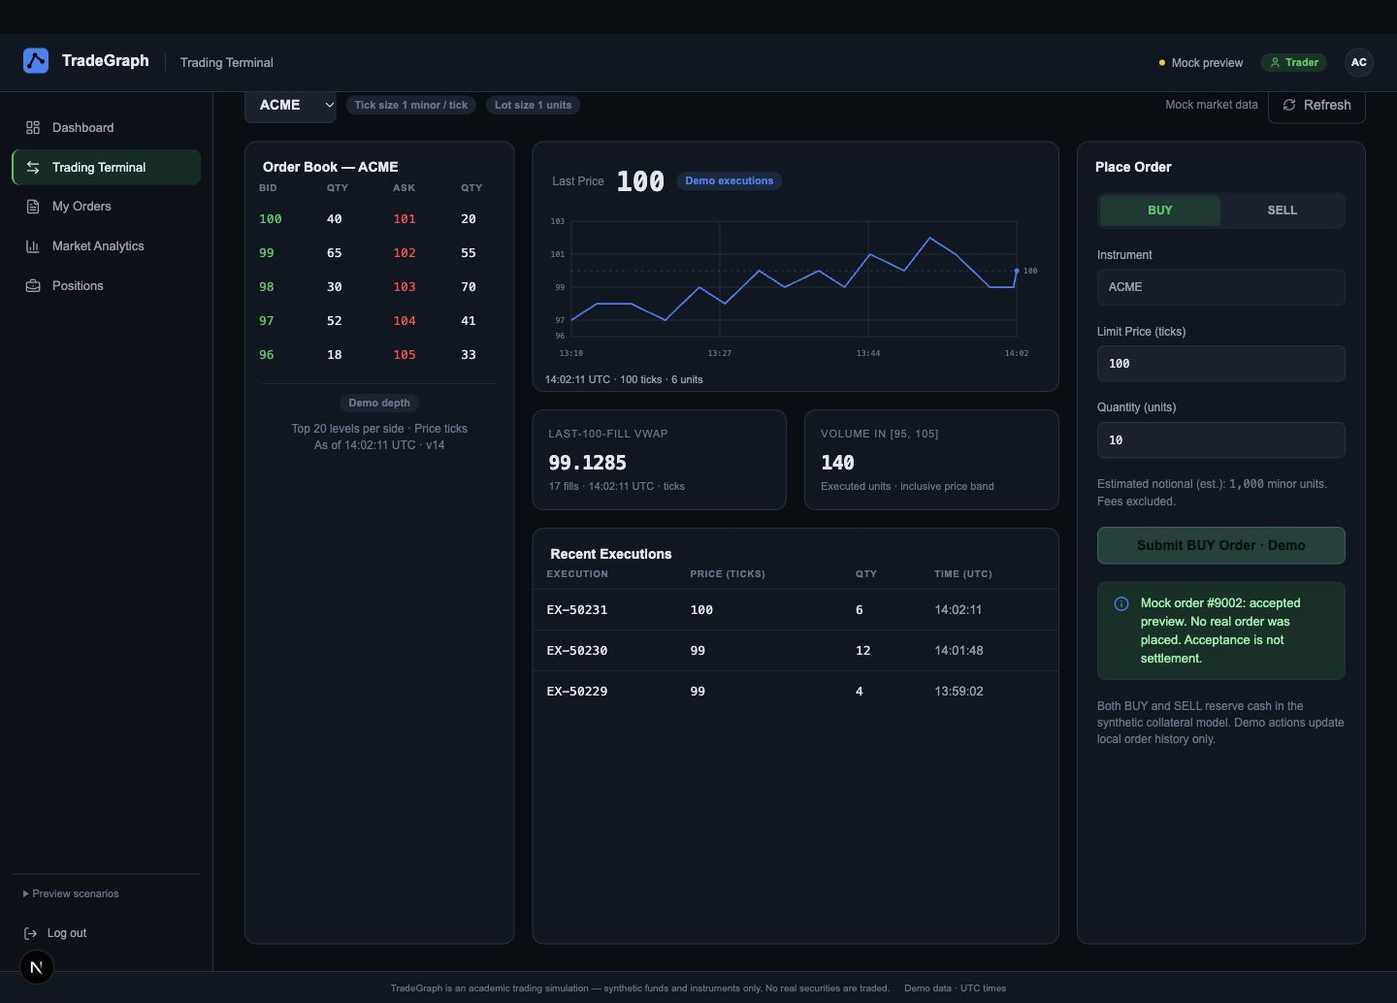
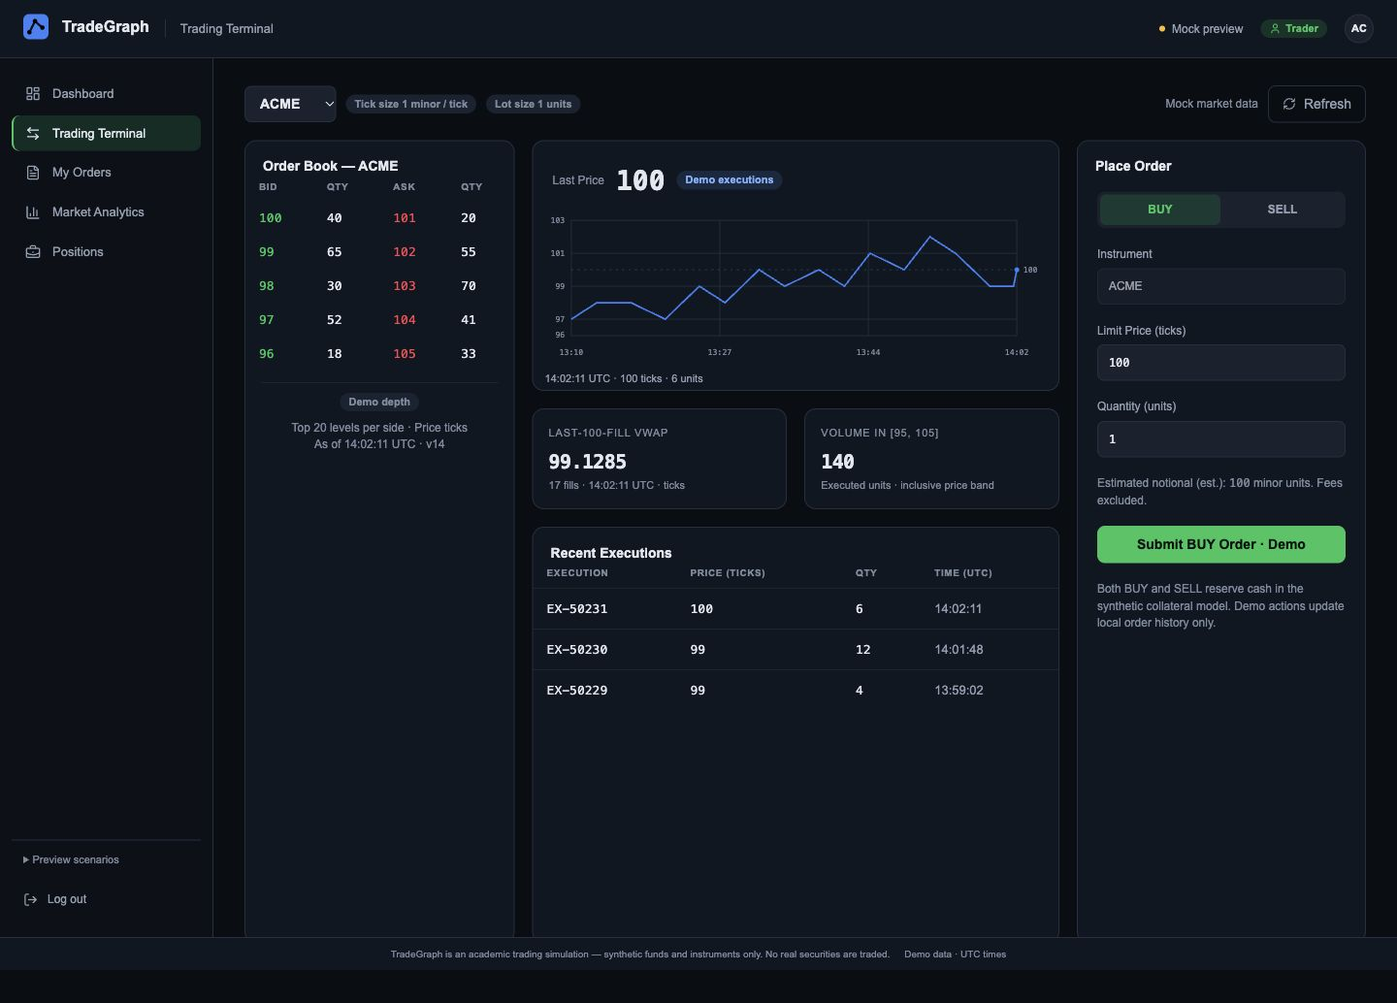
frontend: complete phase 13 verification evidence and FastAPI handoff

diff --git a/frontend/IMPLEMENTATION.md b/frontend/IMPLEMENTATION.md
@@ -6,22 +6,22 @@ Baseline: e99bc37, confirmed equal to fetched origin/main. All original frontend
 
 Reference: TradeGraph Frontend Mockups.pdf (11 pages), visually inspected at 1600px. Main canvas #090d12, top bar/cards #101722, border #253040, text #e2e8f0, muted #939fb2, blue #3b82f6, green #22c55e. 60px top bar, 220px sidebar, 32px content inset, 18px gaps, 12px card radius. System sans text and monospace financial values. Mobile behavior is not specified: use a collapsible navigation and stacked cards with horizontal scrolling contained inside tables.
 
-| Phase | Page / PDF                      | Components                                                                 | Backend contracts                                    | Gate    |
-| ----- | ------------------------------- | -------------------------------------------------------------------------- | ---------------------------------------------------- | ------- |
-| 0     | Foundation                      | contracts, fixtures, service interfaces, shell, UI primitives              | all implemented route models                         | passed  |
-| 1     | Authentication / 1              | container, mode selector, role selector, sign-in, sign-up, preview         | Login, LoginResponse                                 | passed  |
-| 2     | Dashboard / 2                   | header, balances, positions, orders, executions, actions                   | Account, OwnOrders, Trades                           | pending |
-| 3     | Terminal / 3                    | instrument, depth, line chart, analytics, executions, order form, feedback | InstrumentCatalog, Book, Trades, Analytics, NewOrder | pending |
-| 4     | My Orders / 4                   | status filters, history, details, cancel dialog, cursor controls           | OwnOrders, CancelledOrder                            | pending |
-| 5     | Market Analytics / 5            | instrument, VWAP, price band, execution history, cursor controls           | Analytics, Trades                                    | pending |
-| 6     | Account / no separate reference | reuse balances and positions from PDF 2                                    | Account                                              | pending |
-| 7     | Admin Overview / 6              | health cards, investigation links, embedded simulator                      | HealthResponse, SimulationStart/Status               | pending |
-| 8     | Surveillance / 7                | limit, candidate table, directed cycle                                     | Cycles                                               | pending |
-| 9     | Regimes / 8                     | mode, six features, on-demand results                                      | Similar                                              | pending |
-| 10    | Disclosures / 9                 | query, metadata results                                                    | Search                                               | pending |
-| 11    | Optimizer / 10                  | allowlisted scenarios, parameters, paired plan trees                       | Optimizer                                            | pending |
-| 12    | Desks / 11                      | aggregate table, recursive explanation                                     | Rollup                                               | pending |
-| 13    | Navigation                      | role guards, logout, aliases, end-to-end checks, handoff                   | future BFF only                                      | pending |
+| Phase | Page / PDF                      | Components                                                                 | Backend contracts                                    | Gate   |
+| ----- | ------------------------------- | -------------------------------------------------------------------------- | ---------------------------------------------------- | ------ |
+| 0     | Foundation                      | contracts, fixtures, service interfaces, shell, UI primitives              | all implemented route models                         | passed |
+| 1     | Authentication / 1              | container, mode selector, role selector, sign-in, sign-up, preview         | Login, LoginResponse                                 | passed |
+| 2     | Dashboard / 2                   | header, balances, positions, orders, executions, actions                   | Account, OwnOrders, Trades                           | passed |
+| 3     | Terminal / 3                    | instrument, depth, line chart, analytics, executions, order form, feedback | InstrumentCatalog, Book, Trades, Analytics, NewOrder | passed |
+| 4     | My Orders / 4                   | status filters, history, details, cancel dialog, cursor controls           | OwnOrders, CancelledOrder                            | passed |
+| 5     | Market Analytics / 5            | instrument, VWAP, price band, execution history, cursor controls           | Analytics, Trades                                    | passed |
+| 6     | Account / no separate reference | reuse balances and positions from PDF 2                                    | Account                                              | passed |
+| 7     | Admin Overview / 6              | health cards, investigation links, embedded simulator                      | HealthResponse, SimulationStart/Status               | passed |
+| 8     | Surveillance / 7                | limit, candidate table, directed cycle                                     | Cycles                                               | passed |
+| 9     | Regimes / 8                     | mode, six features, on-demand results                                      | Similar                                              | passed |
+| 10    | Disclosures / 9                 | query, metadata results                                                    | Search                                               | passed |
+| 11    | Optimizer / 10                  | allowlisted scenarios, parameters, paired plan trees                       | Optimizer                                            | passed |
+| 12    | Desks / 11                      | aggregate table, recursive explanation                                     | Rollup                                               | passed |
+| 13    | Navigation                      | role guards, logout, aliases, end-to-end checks, handoff                   | future BFF only                                      | passed |
 
 ## Resolved design/contract differences
 
@@ -83,3 +83,15 @@ OptimizerControls and recursive PlanPanel/PlanTree committed. Explicit compare, 
 ## Phase 12 — Desk Analytics
 
 DeskRollup and DeskExplanation committed independently. Exact signed PnL and execution volume, local sorting, refresh and shared data states completed. Browser visual check and typecheck pass; evidence/12-desks.jpg compared with PDF 11. Removed unsupported desk names/hierarchy while preserving the table and explanation-card arrangement. No extra totals over overlapping ancestor/child rows. No backend integration.
+
+## Phase 13 — Navigation, regression and integration boundary
+
+All twelve pages and legacy aliases are connected. The centralized catalog service now supplies instrument selection/symbol resolution and supports an empty active catalog without fallback data. The mock provider preserves selected instruments/local order state across client navigation, isolates role access, handles direct routes/expiry and clears the session on logout. Shared loading/error/empty states, mobile navigation, native dialog Escape and focusable table regions were verified in the browser. Request sequence guards discard stale administrative query results.
+
+Final checks: `npm run format:check` passed; `npm run typecheck` passed; `npm test` **16 passed, 0 failed**; `npm run build` passed with every intended page and legacy alias. `npm start` served the production build; root/login/trade/surveillance/optimizer aliases, signed-out routing, dialog Escape and final terminal rendering were smoke-tested. Production browser error log: empty. The owned preview servers were stopped afterward.
+
+All eleven authenticated pages at 375×812 reported document width/scroll width of 375. Secondary text contrast and blue action contrast were improved slightly from the reference; mobile drawer stacking was corrected after the footer obstructed logout. Remaining visible deviations are the contract differences recorded above. The standalone Account screen reuses Dashboard components because no separate reference exists. Screenshots evidence/01 through evidence/15 cover desktop, mobile and large-value scenarios; 03-terminal.jpg is the final production rendering.
+
+The development build cache encountered disk pressure during extensive hot reloads; only the generated `.next/dev/cache` was removed. The final production build and smoke tests succeeded afterward. No user files outside the task were deleted.
+
+Deliverables: README.md for run instructions, VERIFICATION.md for executed checks and reference mapping, INTEGRATION.md for service/endpoint mappings and the still-unimplemented server-side BFF/session/lossless normalization work. No live backend call, bot process, database operation, registration or financial transaction occurred. Git diff confirms backend/, db/, repository tests/, docs/, scripts/ and root README.md unchanged from e99bc37. All commits are local on codex/frontend-mockups; nothing pushed.

diff --git a/frontend/INTEGRATION.md b/frontend/INTEGRATION.md
@@ -1,0 +1,61 @@
+# Future FastAPI integration handoff
+
+## Current boundary
+
+`src/lib/contracts.ts` mirrors implemented Python route fields. `Int` means a **normalized exact decimal integer string**, not the wire type. `src/lib/services.ts` exports frontend-facing service contracts and a single deterministic mock adapter. `PreviewProvider` owns the replaceable adapter, role preview, catalog, selected instrument and fixture settings. Components receive normalized records or call this adapter. No application fetch, API proxy, server session, database client, polling loop or market WebSocket is active.
+
+The preview session and its client route guard provide demonstration UX only. The future BFF must independently enforce authorization. A selected frontend role must never override `LoginResponse.role`; `homeFor` maps the actual returned role. `AuthService` documents the future server-side login request/response boundary separately from mock sign-in. Never send a raw access token to client JavaScript or reuse a mock session as real authentication.
+
+## Endpoint replacement map
+
+| Service             | Existing FastAPI route         | Role / notes                                                                |
+| ------------------- | ------------------------------ | --------------------------------------------------------------------------- |
+| AuthService         | POST /login                    | Server-only; email/password only; actual returned role is authoritative     |
+| instruments.list    | GET /instruments               | Both roles; never invent a fallback for an empty catalog                    |
+| account.get         | GET /account/me                | TRADER; cash/escrow in minor units, signed positions, gross PnL             |
+| orders.list         | GET /orders/me                 | TRADER; limit/before_id and next_before_id; no offset/page-count assumption |
+| orders.submit       | POST /orders                   | TRADER; optional Idempotency-Key; 201 acceptance is not settlement          |
+| orders.cancel       | POST /orders/{id}/cancel       | TRADER; no body; reconcile unknown outcomes before retries                  |
+| market.book         | GET /market/{symbol}/book      | Both; derived top-20 depth, stale/as_of/version                             |
+| market.trades       | GET /market/{symbol}/trades    | Both; committed execution history, cursor paging                            |
+| market.analytics    | GET /market/{symbol}/analytics | Both; inclusive price band, decimal-string VWAP, up to 100 fills            |
+| health.get          | GET /health                    | Dependency states/trading_ready only; no latency contract                   |
+| surveillance.cycles | GET /admin/surveillance/cycles | Admin, limit 1–100, candidate cycles only                                   |
+| regimes.similar     | GET /admin/regimes/similar     | Admin; exactly current=true OR six features, k 1–100; explicit action only  |
+| disclosures.search  | GET /admin/disclosures/search  | Admin; q 1–500, metadata only                                               |
+| optimizer.compare   | GET /admin/optimizer/compare   | Admin; allowlisted price_band/recent_executions; explicit expensive read    |
+| desks.rollup        | GET /admin/desks/rollup        | Admin; desk_id/PnL/volume, no parent/name fields                            |
+| simulator.start     | POST /admin/simulator/start    | Admin; validated config, no trader UUID in body                             |
+| simulator.stop      | POST /admin/simulator/stop     | Admin; no body; success only at STOPPED, even on HTTP 200                   |
+| simulator.status    | GET /admin/simulator/status    | Admin; active_bots, exact counters, derived-worker readiness                |
+
+## Exact numbers
+
+1. Read FastAPI response text on the server. Use `parseWire` **before** ordinary JSON parsing: every integer token becomes bigint, fractional numbers remain lossless number objects, decimal-string VWAP remains a string.
+2. Validate the actual response shape, field enums and bounds. Normalize financial values, quantities, IDs/cursors and counters using `normalizeInteger`. Normalize bounded metadata (instrument IDs, bot/window counts) with `boundedNumber`; explicitly validate finite six-feature/rank/distance/timing decimals. Do not cast the unknown parse result directly to a contract.
+3. Pass normalized strings through the BFF's JSON to client components. `fmt` and financial calculations use BigInt. Prices, notional, remaining quantities, cash totals and signed PnL never pass through floating point. No currency or decimal scale is inferred.
+4. Serialize outgoing orders with `serializeOrder` and simulation seeds with `serializeSimulationStart`; integer tokens must be JSON numbers for strict Pydantic bodies, not quoted strings. Transport them server-side without an intermediate Number conversion. Keep request fields allowlisted.
+5. `validateOrder` checks positive ticks, the Redis-safe price bound, BIGINT quantity/notional and lot multiple. It does not replace backend risk/collateral/fee checks. Both sides reserve cash; estimated notional excludes fees.
+
+The line chart converts only bounded pixel ratios to Number; exact price labels remain strings/BigInt. It draws chronologically sorted execution observations with straight segments, no candles, invented extrema, random prices or volume bars. The mock 100-observation cap is only a preview data limit. Future historical aggregation/decimation or additional cursor fetching must be explicitly specified before presenting broader intervals.
+
+## Session and error work still required
+
+Implement the approved same-origin Next.js BFF with a private backend URL, secure server-side token handling, HttpOnly/Secure/SameSite cookies, CSRF protection, expiry handling and authoritative server role checks. Forward sanitized backend error envelopes. Do not add permissive CORS, browser database access or unapproved backend routes.
+
+On 401, clear the real session and require login; on 403, refuse access. A request timeout never proves no reservation or execution committed: reconcile own orders, account and committed executions before any retry. Mock submission and cancellation states illustrate these semantics without touching financial state. Future action error types should replace local Error messages at the adapter boundary.
+
+The backend has no registration/password-reset/refresh-token/backend-logout endpoint or admin approval workflow. Sign-up must remain unavailable until an explicitly approved provisioning implementation exists. Administrator sign-up requires invitation/provisioning; frontend selection grants no privilege.
+
+## Refresh configuration (inactive)
+
+`futureRefresh` records intended active-view cadences: depth and executions 1.5 s; orders 2 s; account 5 s plus after trading actions; simulator status 2.5 s. These are configuration values only. When activated, pause outside active views, prevent overlapping/stale requests, and reconcile after actions. Surveillance, regime capture and optimizer stay on demand; current=true can capture/upsert a regime and must not be prefetched or polled. No market WebSocket architecture is planned.
+
+## Deliberate preview limits
+
+- Local fixtures are illustrative records, not a financially reconciled live exchange ledger; mock fills never alter cash or claim settlement.
+- Regime current features are a labeled demo fixture. The similarity endpoint does not expose a standalone current-feature vector: the future UI must obtain an approved source or omit unavailable values instead of inventing fields.
+- FTS preview uses simple local title matching; the real service must preserve PostgreSQL search/ranking semantics.
+- Plan timings/row counts/buffers are illustrative mock plan objects. No actual SQL is executed.
+- Desk hierarchy cannot be drawn from aggregate IDs alone. No names, parents, universal speedup, current portfolio value, unrealized PnL or unsupported market metrics were invented.
+- State examples are selected through an unobtrusive review panel; this panel must be removed or environment-gated in a later real deployment.

diff --git a/frontend/VERIFICATION.md b/frontend/VERIFICATION.md
@@ -1,0 +1,48 @@
+# Frontend verification
+
+Executed locally on 16 November 2026 (Asia/Kolkata), using the supplied PDF mockups and the actual repository route models. Screenshots are under evidence/. These are visual comparisons, not an automated pixel-difference claim.
+
+## Automated checks
+
+- Strict TypeScript with no emit.
+- Node test runner via tsx: exact wire parsing/serialization, BIGINT balances/seeds/notional, lot/price limits, role/session errors, cursor/cancellation semantics, selected-instrument executions, inclusive bands, simulator config/ERROR handling, missing instruments, plan parameter consistency, custom-vector validation and mock action outcomes.
+- React server-render checks: exact financial card output, cancelled residual semantics, empty/extreme-value line chart, directed edge counts and nested plan nodes/aggregate rows.
+- Production Next.js build; all intended routes and existing aliases resolve.
+- Prettier check and git diff --check.
+
+Final results are recorded in IMPLEMENTATION.md after the final run.
+
+## Browser checks through the in-app browser
+
+| Workflow                 | Observed result                                                                                                                   |
+| ------------------------ | --------------------------------------------------------------------------------------------------------------------------------- |
+| Auth modes/roles         | Sign In / Sign Up and Trader / Administrator selection work                                                                       |
+| Registration             | Matching passwords show registration unavailable; no credentials saved or account-created claim; mismatch validation works        |
+| Mock identity authority  | Admin fixture credentials with Trader selected are rejected for role mismatch                                                     |
+| Trader navigation        | Dashboard → Terminal → My Orders → Analytics → Account; active navigation and shared shell retained                               |
+| BUY preview              | Exact estimate and accepted demo feedback persist after refresh                                                                   |
+| SELL preview             | BETA quantity 11 rejected for lot size 10; quantity 20 with partial outcome appears as filled 10 / unfilled 10 in My Orders       |
+| Cancellation             | Native confirmation dialog, CANCELLED status and explicit non-resting residual explanation verified                               |
+| Cursor history           | Next loads only IDs below next_before_id; previous restores the earlier cursor                                                    |
+| Analytics                | Inclusive 95–105 mock band yields 140 ACME units; selected instrument scopes execution rows                                       |
+| Administrator navigation | Overview → Surveillance → Regimes → Disclosures → Optimizer → Desks                                                               |
+| Simulator                | RUNNING → STOPPING → STOPPED; unknown stop yields ERROR with disabled restart; no bot process started                             |
+| Surveillance             | Selecting five-trader cycle updates exactly its supplied directed edges/counts                                                    |
+| Regimes                  | Explicit search shows all six features and sorted distances; empty current query shows missing observations                       |
+| Disclosures              | Default query returns metadata/ranks only; no body viewer                                                                         |
+| Optimizer                | Nested paired plans render; Recent Executions disables unused instrument/price controls                                           |
+| Role separation          | Admin direct Trader route and Trader direct Admin route both denied                                                               |
+| Session lifecycle        | Natural 15-minute expiry returns to auth with expiry notice; explicit logout returns to /auth                                     |
+| Shared data states       | Empty, error, loading and populated recovery verified on desk analytics                                                           |
+| Missing market data      | Empty chart, stale-depth notice and empty active catalog verified; no submit controls without catalog                             |
+| Large integers           | 9,007,199,254,740,993 is displayed exactly in account view                                                                        |
+| Mobile                   | All eleven authenticated pages tested at 375×812 with document scrollWidth = clientWidth = 375; table overflow stays inside cards |
+| Mobile navigation        | Drawer open/close and logout verified; footer stacking issue found and corrected                                                  |
+
+Keyboard-support checks include explicit form labels, visible focus styles, focusable table scroll regions, native dialog focus/escape behavior, and chart point focus tooltips. Contrast math checked: body text 14.59:1 and muted text 6.72:1 on card surface. Secondary text was brightened to remain at least 4.5:1 on both card/input surfaces; blue action text/background contrast was adjusted accordingly. This is a focused accessibility review, not a formal WCAG certification.
+
+## Visual reference mapping
+
+01-auth ↔ PDF 1; 02-dashboard ↔ PDF 2; 03-terminal ↔ PDF 3; 04-orders ↔ PDF 4; 05-analytics ↔ PDF 5; 07-overview ↔ PDF 6; 08-surveillance ↔ PDF 7; 09-regimes ↔ PDF 8; 10-disclosures ↔ PDF 9; 11-optimizer ↔ PDF 10; 12-desks ↔ PDF 11. 06-account reuses PDF 2 components because no distinct account screen was supplied. Additional mobile and large-integer screenshots capture regression scenarios.
+
+The implementation record documents visible contract-driven deviations. No backend, database schema, financial SQL or backend test implementation changed; no changes were pushed.

diff --git a/frontend/README.md b/frontend/README.md
@@ -1,0 +1,23 @@
+# TradeGraph frontend preview
+
+A Next.js App Router / React / strict TypeScript / Tailwind demonstration built against the supplied 11-screen PDF. All service data and actions are local mocks. No FastAPI connection, database access, registration service or real trading operation is implemented.
+
+```sh
+cd frontend
+npm ci
+npm run dev
+```
+
+Open http://127.0.0.1:3000. Use **View as Trader** or **View as Compliance Admin** on Authentication. Optional mock sign-in accepts `alice@tradegraph.sim` or `admin@tradegraph.sim` with the public fixture password `preview-only`. These values never authenticate with the backend. Only a mock role flag and expiry are stored in sessionStorage; credentials are never stored. Local order changes reset on full reload.
+
+The sidebar's **Preview scenarios** exposes populated, empty, loading, stale, unavailable, large-integer and no-active-instrument fixtures. Action outcomes cover accepted, partial, filled, rejected and unknown previews. In the administrator preview, the unknown outcome demonstrates a failed simulator stop with ERROR and disabled restart. Reload the frontend to begin a fresh mock demonstration.
+
+```sh
+npm run typecheck
+npm test
+npm run format:check
+npm run build
+npm start
+```
+
+See [implementation record](IMPLEMENTATION.md), [verification evidence](VERIFICATION.md), and [future integration handoff](INTEGRATION.md). The original mockup's currency signs, health latency and desk names are unsupported by the API and have been replaced with contract-aligned values. Minor text/button contrast adjustments support accessibility. A separate Account screen reuses Dashboard components because no separate reference was supplied.
